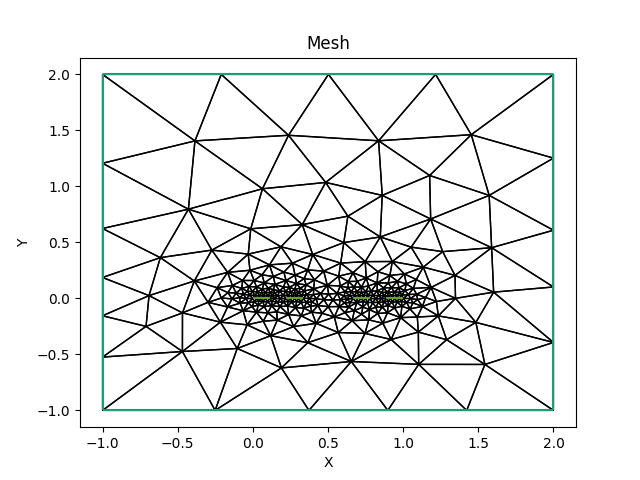
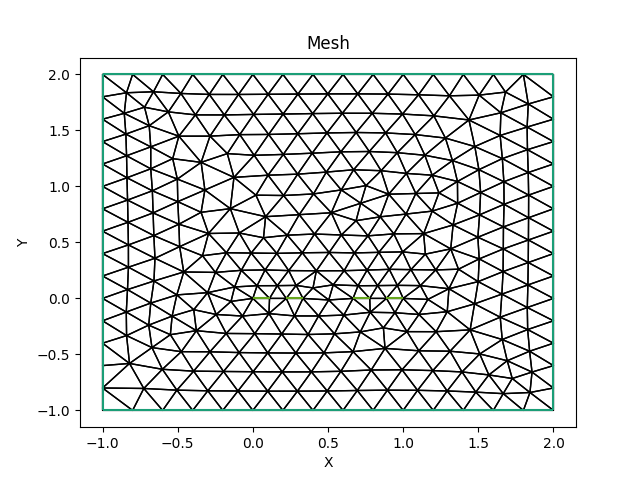
update

Changed region(s): [[0.1562, 0.1562, 0.875, 0.875]]

diff --git a/hm_square_cantor/main.py b/hm_square_cantor/main.py
@@ -21,7 +21,7 @@ from firedrake.pyplot import tripcolor
 from matplotlib.ticker import PercentFormatter
 n=int(input("Enter the number of refinement steps for the cantor set: "))
 deg=int(input("Enter the degree of polynomial in FEM space:"))
-mesh_size=1
+mesh_size=0.2
 # choose a triangulation
 geo = MakeGeometry(n)
 ngmsh = geo.GenerateMesh(maxh=mesh_size)
@@ -37,9 +37,9 @@ plt.savefig(f"figures/square_{n}.png")
 print(f"plot of the mesh saved as figures/square_{n}.png")     
 
 # max of refinement
-max_iterations = 20
+max_iterations = 40
 # stop refinement when sum_eta less than tolerance
-tolerance=5*1e-17
+tolerance=1*1e-3
 uh,f,V=get_solution(mesh0,tolerance,max_iterations,deg)
 
 # plot solution

diff --git a/hm_square_cantor/geogen.py b/hm_square_cantor/geogen.py
@@ -34,7 +34,7 @@ def MakeGeometry(cantor_level):
         pnt2=(x2,0.0)
         P1=geo.AppendPoint(*pnt1)
         P2=geo.AppendPoint(*pnt2)
-        geo.Append (["line", P1, P2],leftdomain=1,rightdomain=1,maxh=0.025, bc = 2)
+        geo.Append (["line", P1, P2],leftdomain=1,rightdomain=1,maxh=0.2, bc = 2)
     return geo
 
 def divide_line(vertices):
